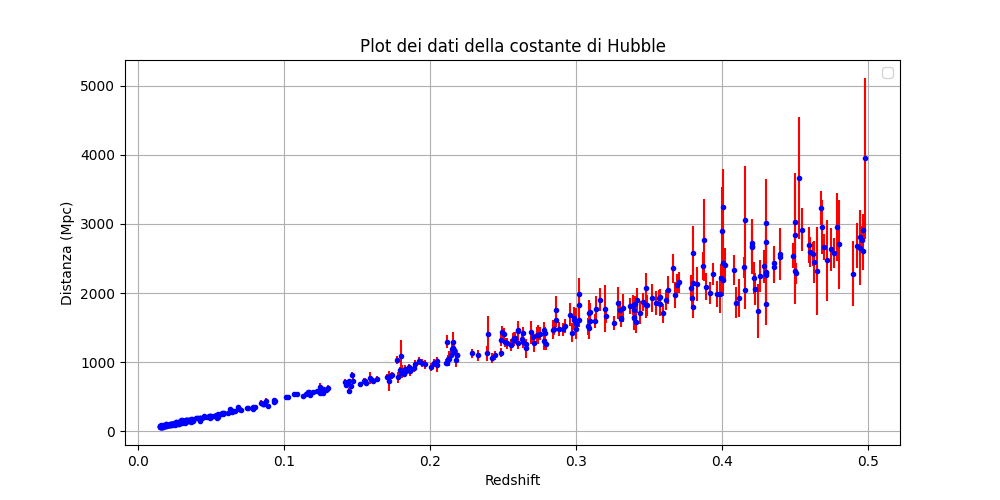
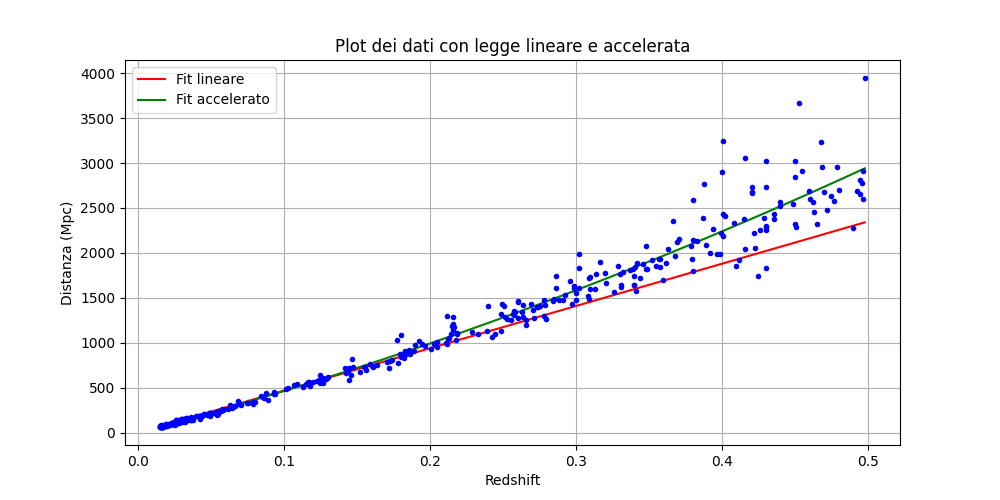
Aggiornamenti esame Febbraio Hubble

diff --git a/Temi d'esame/Esame 19 febbraio 2024/Hubble.py b/Temi d'esame/Esame 19 febbraio 2024/Hubble.py
@@ -1,36 +1,85 @@
 import matplotlib.pyplot as plt
 import numpy as np
-
+from lib import esegui_fit, legge_hubble, accelerazione_uni, rand_range
 
 from lib import legge_hubble, esegui_fit
 
 def main () :
     
-    # parte 1
-    redshift, distanza, errore = np.loadtxt ("SuperNovae.txt", unpack=True)
+    # Parte 1
+    redshift, distanza, errore = np.loadtxt ("SuperNovae.txt", unpack=True)     # unpack in questo caso è necessario perchè ho più colonne
+    
+    diz_par_lin = {         # non ha molto senso fare un diz. con un solo parametro, però non volevo modificare la funzione esegui_fit
+        "H": 1.,            # questo è il dizionario per la legge lineare
+    }
+
+    # Parte 2 e 3
+    diz_result = esegui_fit (redshift, distanza, errore, diz_par_lin, legge_hubble)     # fit con legge lineare
+
+    print ("\nEsito del Fit: ", diz_result["Validità"])
+    print ("\nNumero di gradi di libertà: ", diz_result["Qsquared"])
+    print ("\nValore del Q-quadro: ", diz_result["Ndof"], "\n")
+
+    print("Matrice di covarianza:\n", diz_result["MatriceCovarianza"])
+
+    for param, value, errore in zip (diz_result["Param"], diz_result["Value"], diz_result["Errori"]) : 
+        print (f'{param} = {value:.6f} +/- {errore:.6f}\n')
+
+    x_fit = np.linspace (min(redshift), max(redshift), 500)     # creo un array per l'asse x del grafico
+    y_fit = legge_hubble (x_fit, *diz_result["Value"])          # calcolo le y da mettere nel grafico 
+    
+
+    # Parte 4
+    diz_par_acc = {
+        "H": 1.,
+        "omega": 1.
+    }
+
+    diz_result_acc = esegui_fit (redshift, distanza, errore, diz_par_acc, accelerazione_uni)        # fit con funzione accelerata
+
+    print ("\nEsito del Fit: ", diz_result_acc["Validità"])
+    print ("\nNumero di gradi di libertà: ", diz_result_acc["Qsquared"])
+    print ("\nValore del Q-quadro: ", diz_result_acc["Ndof"], "\n")
+
+    print("Matrice di covarianza:\n", diz_result["MatriceCovarianza"])
+
+    for param, value, errore in zip (diz_result_acc["Param"], diz_result_acc["Value"], diz_result_acc["Errori"]) : 
+        print (f'{param} = {value:.6f} +/- {errore:.6f}\n')
+
+    x_fit_acc = np.linspace (min(redshift), max(redshift), 500)             # asse delle x da mettere nel grafico
+    y_fit_acc = accelerazione_uni (x_fit, *diz_result_acc["Value"])         # calcolo le y da mettere nel grafico con la funzione accelerata
     
     fig, ax = plt.subplots(nrows = 1, ncols = 1, figsize = (10, 5))   # 1 riga, 1 colonna
-    ax.grid ()
-    ax.set_title ("Plot dei dati della costante di Hubble")
-    ax.legend ()
-    ax.set_xlabel ("Redshift")
-    ax.set_ylabel ("Distanza (Mpc)")
     ax.errorbar (redshift, distanza, xerr = 0.0, yerr = errore,
         markersize = 3,                             # dimensione del punto
         fmt = 'o',                                  # tipo di marker (punto)
         color = 'blue',                             # colore della linea
         ecolor = 'red',                             # colore della barra di error
-        )   
-
-    diz_par = {
-        "H": 1.,    
-    }
-
-    diz_result = esegui_fit (redshift, distanza, errore, diz_par, legge_hubble)
-
-    print ("ok")
+        )
+    
+    # Creazione del grafico
+    ax.plot (x_fit, y_fit, color = 'red', label = 'Fit lineare')
+    ax.plot (x_fit_acc, y_fit_acc, color = 'green', label = "Fit accelerato")
+    ax.grid ()
+    ax.set_title ("Plot dei dati con legge lineare e accelerata")
+    ax.legend ()
+    ax.set_xlabel ("Redshift")
+    ax.set_ylabel ("Distanza (Mpc)")
 
     plt.savefig ("Plot_e_fit_Hubble.png")
+
+    # Parte 5
+    x_min, x_max = 1, 30
+    lista_casuale = []
+    for i in range (x_max) :
+        lista_casuale.append (int (rand_range (x_min, x_max)) )     # qui serve un bel casting obbligatorio!
+
+
+    # Parte 6
+    '''
+    N = 50
+    for i in range (N) :
+    '''
     plt.show ()  
 
 if __name__ == "__main__" :

diff --git a/Temi d'esame/Esame 19 febbraio 2024/lib.py b/Temi d'esame/Esame 19 febbraio 2024/lib.py
@@ -1,12 +1,20 @@
 import numpy as np
 from iminuit import Minuit
 from iminuit.cost import LeastSquares
+import random
 import sys
 
 # Funzione Hubble
 def legge_hubble (redshift, H) :
     c = 3 * (10)**5
     D = (redshift * c) / (H)
+    return D
+
+
+def accelerazione_uni (redshift, H, omega) :
+    c = 3 * (10)**5
+    q = ((3 * omega) / 2 ) - 1
+    D = (c/H) * (redshift + 0.5 * (1 - q) * (redshift)**2)
     return D
 
 
@@ -38,3 +46,8 @@ def esegui_fit (x, y, sigma, dizionario_par, funzione_fit) :
     }
 
     return diz_risultati
+
+
+# Distribuzione uniforme tra x_min e x_max con seed scelto in auto
+def rand_range (x_min, x_max) :
+    return x_min + random.random() * (x_max - x_min)
